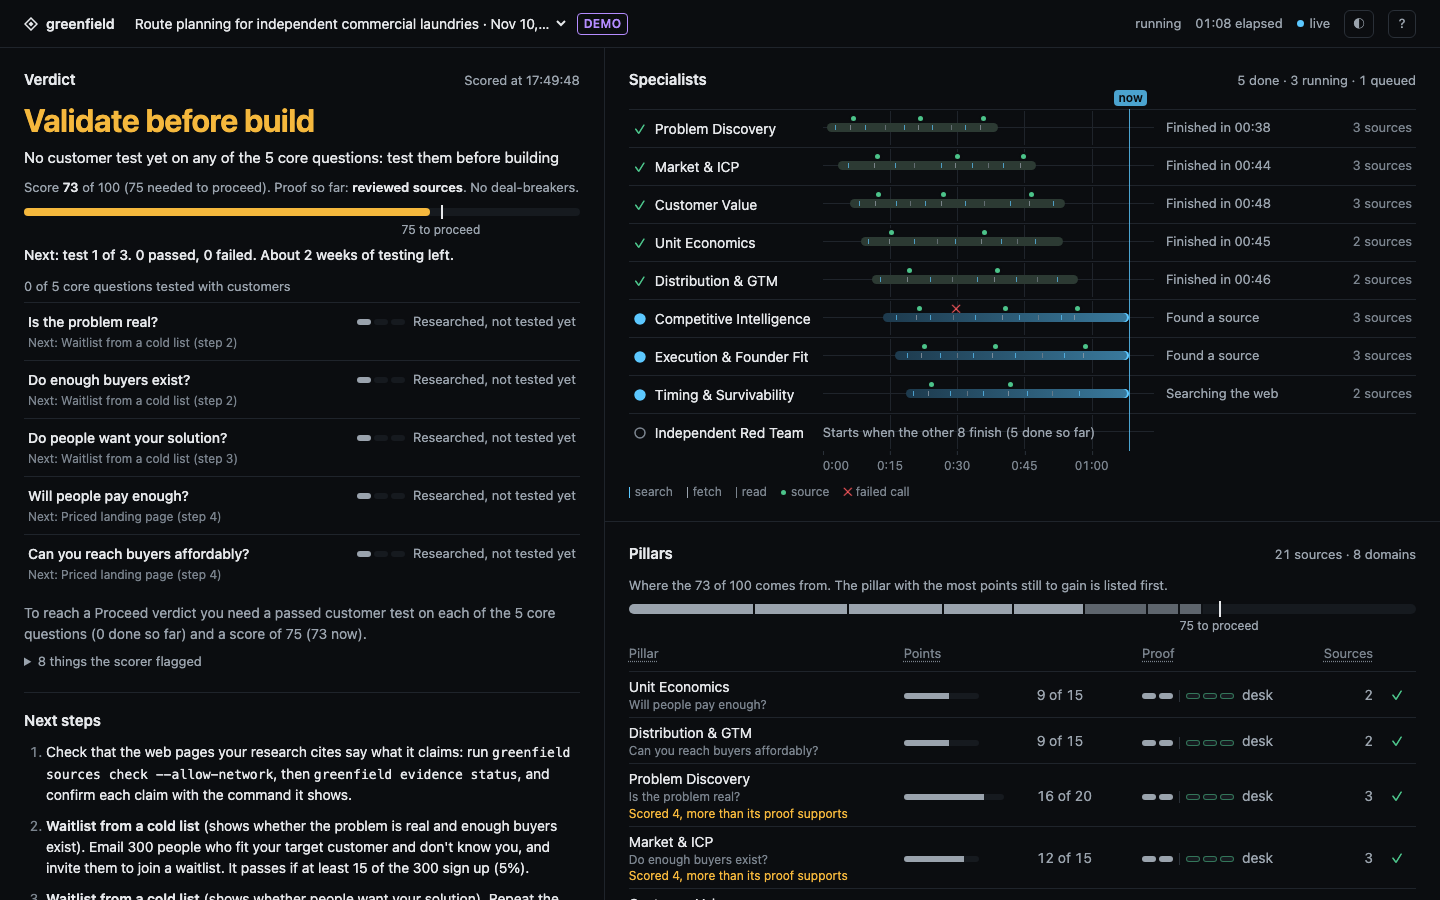
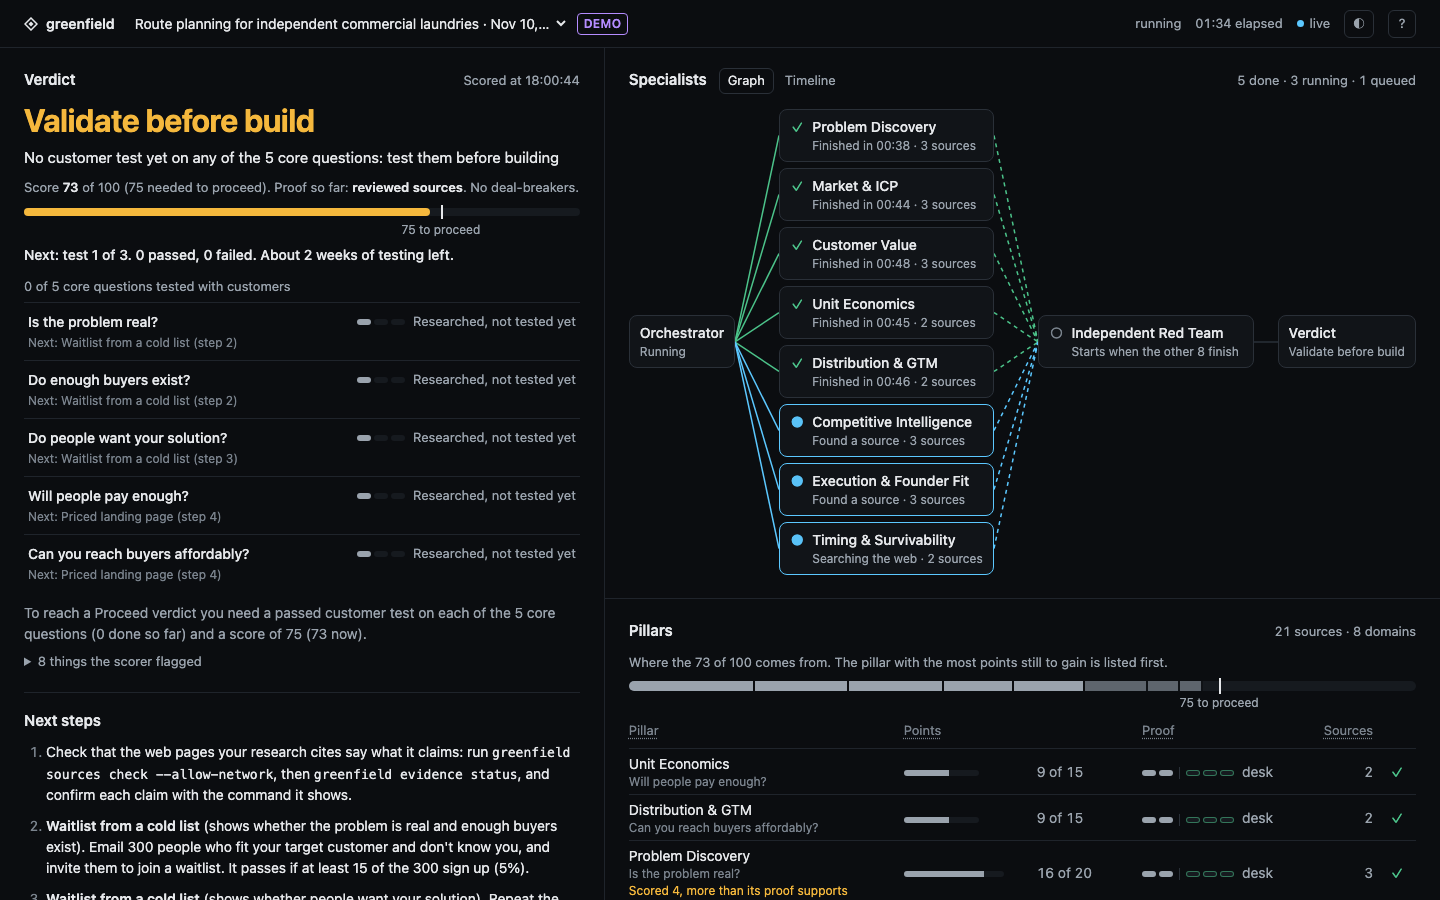
Specialists as a live graph with a Timeline switch (W58)
- The Specialists panel draws the orchestrator, the eight specialists,
  the red team and the verdict as connected boxes; each box shows the
  agent's state, current action and source count
- Lines into the red team stay dashed until all eight specialists finish
- A dot travels a specialist's line when it records a source, skipped
  for old events and under reduced motion
- The old lanes stay behind a Graph / Timeline switch that remembers the
  choice; phones keep the compact list
- A finished run folds the panel to one line with a Show details button

diff --git a/skill/assets/mission-control.html b/skill/assets/mission-control.html
@@ -116,6 +116,26 @@ section{padding:20px 24px;min-width:0}
 .legend i{display:inline-block;vertical-align:middle;margin-right:5px}
 .legend .lt{width:1px;height:11px}.legend .ld{width:5px;height:5px;border-radius:50%;background:var(--ok)}
 .note{color:var(--fg-2);font-size:13px;margin:0 0 8px}
+/* graph: the same agents as the timeline, drawn as who hands work to whom; lines are stretched SVG, nodes are real buttons */
+.h #viewSw{margin-right:auto}
+.graph{display:none;grid-template-columns:auto 44px minmax(0,1fr) 44px minmax(0,1fr) 24px auto;align-items:center}
+.edges{position:relative;align-self:stretch}.edges svg{position:absolute;inset:0;width:100%;height:100%}
+.edges line{stroke:var(--line-2);stroke-width:1.5;vector-effect:non-scaling-stroke}
+.edges line.run{stroke:var(--run)}.edges line.done{stroke:var(--ok)}.edges line.fail{stroke:var(--bad)}.edges line.wait{stroke:var(--warn)}
+.edges.hold line{stroke-dasharray:4 4}
+.gcol{display:flex;flex-direction:column;min-width:0}
+.node{display:grid;grid-template-columns:14px minmax(0,1fr);column-gap:8px;align-items:baseline;width:100%;min-width:0;margin:3px 0;padding:6px 10px;border:1px solid var(--line-2);border-radius:8px;background:var(--raised);text-align:left;color:inherit;font:inherit}
+.node.plain{display:block;width:auto}
+button.node{cursor:pointer}button.node:hover,.node.sel{border-color:var(--fg-3)}
+.node .name{display:block;font-weight:500;overflow:hidden;text-overflow:ellipsis;white-space:nowrap}
+.node .what{display:block;grid-column:2;font-size:12px}.graph>.node span{white-space:normal}
+.node[data-s="run"]{border-color:var(--run)}.node[data-s="fail"]{border-color:var(--bad)}.node[data-s="wait"]{border-color:var(--warn)}
+.node[data-s="run"] .g{animation:pulse 1.6s ease-in-out infinite}
+@keyframes pulse{50%{opacity:.35}}
+.flow{position:absolute;left:0;top:var(--y);width:7px;height:7px;margin:-3.5px;border-radius:50%;background:var(--ok);animation:flow .9s linear forwards}
+@keyframes flow{to{left:100%;top:50%}}
+.lanedone{display:flex;align-items:center;gap:12px;margin:0;color:var(--fg-2)}
+@media (min-width:641px){.lanes[data-view="graph"] .graph{display:grid}.lanes[data-view="graph"] .lanebox,.lanes[data-view="graph"] .legend{display:none}}
 /* pillars: the bar is the score split by pillar, each row is one pillar's share */
 .pbar{position:relative;display:flex;height:10px;border-radius:5px;background:var(--track);margin:0 0 30px}
 .pbar i{background:var(--fg-2);box-shadow:inset -2px 0 var(--bg);cursor:pointer}.pbar i:first-child{border-radius:5px 0 0 5px}
@@ -178,7 +198,7 @@ th.r .hint .tip{left:auto;right:-8px}
 .keys kbd{font:12px var(--mono);color:var(--fg)}
 .help p{color:var(--fg-2);font-size:13px;margin:14px 0 0}
 @media (prefers-reduced-motion:reduce){*,*::before,*::after{animation:none!important;transition:none!important}}
-@media (forced-colors:active){.span,.ladder i,.seg i,.sbar,.pbar,.pts,.tick{border:1px solid CanvasText}}
+@media (forced-colors:active){.span,.node,.ladder i,.seg i,.sbar,.pbar,.pts,.tick{border:1px solid CanvasText}}
 @media (max-width:1100px){main{grid-template-columns:1fr;grid-template-rows:none;grid-template-areas:"verdict" "lanes" "matrix" "log"}.verdict{border-right:0;border-bottom:1px solid var(--line)}.matrix{border-right:0;border-bottom:1px solid var(--line)}
 }
 /* a verdict panel wide enough for two columns: map with the verdict's words beside it, steps below in two columns that read down */
@@ -191,7 +211,7 @@ th.r .hint .tip{left:auto;right:-8px}
   #pillars td:first-child{white-space:normal}
   .bar{gap:10px;padding:0 12px}.lane{grid-template-columns:max-content minmax(0,1fr)}.mark .word,.clock,.kind,.conn .ctext{display:none}
   section{padding:14px 12px}
-  .axis,.nowline,.legend,.lane .track,.lane .cnt,.pts,.hide-sm{display:none}
+  .axis,.nowline,.legend,.lane .track,.lane .cnt,.pts,#viewSw,.hide-sm{display:none}
   .lanebox{margin-top:0}.crow{grid-template-columns:minmax(0,1fr)}
   .row{gap:8px}
 }
@@ -225,11 +245,13 @@ th.r .hint .tip{left:auto;right:-8px}
 </div>
 </section>
 <section class="lanes" aria-labelledby="lh">
-<div class="h"><h2 id="lh">Specialists</h2><span class="meta num" id="laneMeta"></span></div>
+<div class="h"><h2 id="lh">Specialists</h2><div class="filters" role="group" aria-label="Specialists view" id="viewSw"><button type="button" data-v="graph" aria-pressed="true">Graph</button><button type="button" data-v="timeline" aria-pressed="false">Timeline</button></div><span class="meta num" id="laneMeta"></span></div>
 <p id="hooksOff" class="note" hidden>No live signal: hooks are off, so statuses come from checkpoints only. Turn them on with <code>greenfield hooks install</code>.</p>
+<p class="lanedone" id="laneDone" hidden><span id="laneDoneText"></span><button type="button" class="iconbtn" id="laneToggle"></button></p>
+<div id="laneBody"><div class="graph" id="graph"></div>
 <div class="lanebox" id="lanebox"><div id="agents"><div class="empty">No agents have started.</div></div>
 <div class="axis" aria-hidden="true"><span></span><div class="labels" id="axis"></div><span></span><span></span></div><div class="nowline" id="nowline" hidden></div></div>
-<div class="legend" aria-hidden="true"><span><i class="lt" style="background:var(--run)"></i>search</span><span><i class="lt" style="background:var(--fg-2)"></i>fetch</span><span><i class="lt" style="background:var(--fg-3)"></i>read</span><span><i class="ld"></i>source</span><span><b style="color:var(--bad)">✕</b> failed call</span></div>
+<div class="legend" aria-hidden="true"><span><i class="lt" style="background:var(--run)"></i>search</span><span><i class="lt" style="background:var(--fg-2)"></i>fetch</span><span><i class="lt" style="background:var(--fg-3)"></i>read</span><span><i class="ld"></i>source</span><span><b style="color:var(--bad)">✕</b> failed call</span></div></div>
 </section>
 <section class="matrix" aria-labelledby="mh">
 <div class="h"><h2 id="mh">Pillars</h2><span class="meta num" id="mMeta"></span></div>
@@ -276,7 +298,7 @@ const PROOF=['nothing recorded','interviews or surveys','reviewed sources','a re
 const GLYPH={Done:['✓','done'],Failed:['✕','fail'],Running:['●','run'],Claimed:['●','run'],Quiet:['◌','wait'],Stopped:['–','none'],Queued:['○','queued']};
 const EMPTY={no_research_dir:['No research folder linked','This run does not know which research folder it produces yet, so there is no verdict to show.'],no_evaluation:['No evaluation yet','The linked folder has no evaluation.json.'],invalid:["Can't score this evaluation",'evaluation.json has input errors, so no verdict is shown.'],invalid_path:['Research folder is outside this project','The linked path leaves the project folder, so it was not read.']};
 const store={run:null,rev:null,runsTag:null,runSig:'',lastId:null,state:null,dec:null,decEtag:undefined,decAt:0,verdict:null,trail:[],lastOk:0,errDelay:1500,failing:false,retryAt:0,timer:0,busy:false,
-  seen:new Set(),groups:[],counts:{},filter:'all',marks:{},roles:[],pending:0,follow:true,say:'',lastSay:0,sayTimer:0,drawer:null,sel:-1,hover:null};
+  seen:new Set(),groups:[],counts:{},filter:'all',marks:{},roles:[],pending:0,follow:true,say:'',lastSay:0,sayTimer:0,drawer:null,sel:-1,hover:null,view:'graph',openLanes:false};
 const clock=x=>{const d=new Date(x);return isNaN(d)?'—':d.toLocaleTimeString([],{hour:'2-digit',minute:'2-digit',second:'2-digit',hour12:false})};
 const hm=x=>{const d=new Date(x);return isNaN(d)?'—':d.toLocaleString([],{day:'numeric',month:'short',hour:'2-digit',minute:'2-digit'})};
 const dur=ms=>{const s=Math.max(0,Math.floor(ms/1000)),h=Math.floor(s/3600),m=Math.floor(s/60)%60,p=n=>String(n).padStart(2,'0');return h?h+':'+p(m)+':'+p(s%60):p(m)+':'+p(s%60)};
@@ -368,6 +390,11 @@ function patchAgents(s){
     box.replaceChildren(...s.agents.map((a,i)=>{const b=document.createElement('button');b.type='button';b.className='lane';b.dataset.agent=a.name;b.dataset.i=i;
       b.innerHTML='<span class="who"><span class="g"></span><span class="name"></span></span><span class="track"></span><span class="what"></span><span class="cnt"></span>';return b}));
     box._built=s.meta.run_id;
+    const sp=s.agents.filter(a=>a.name!=='gf-redteam'),rt=s.agents.find(a=>a.name==='gf-redteam'),y=i=>((i+.5)/sp.length*100).toFixed(2);
+    const node=a=>`<button type="button" class="node" data-agent="${esc(a.name)}" data-i="${s.agents.indexOf(a)}"><span class="g"></span><span class="name"></span><span class="what"></span></button>`;
+    const fan=(id,from)=>`<div class="edges"${id}><svg viewBox="0 0 100 100" preserveAspectRatio="none" aria-hidden="true">${sp.map((a,i)=>`<line data-e="${esc(a.name)}" x1="0" y1="${from?y(i):50}" x2="100" y2="${from?50:y(i)}"/>`).join('')}</svg></div>`;
+    $('graph').innerHTML=`<div class="node plain"><span class="name">Orchestrator</span><span class="what" id="gHub"></span></div>${fan('',0)}<div class="gcol">${sp.map(node).join('')}</div>${fan(' id="gOut"',1)}${rt?node(rt):'<span></span>'}
+<div class="edges"><svg viewBox="0 0 100 100" preserveAspectRatio="none" aria-hidden="true"><line id="gEnd" x1="0" y1="50" x2="100" y2="50"/></svg></div><div class="node plain"><span class="name">Verdict</span><span class="what" id="gVerdict"></span></div>`;
   }
   paintLanes();
 }
@@ -391,8 +418,19 @@ function paintLanes(){
     const what=d.label==='Done'&&a.started_at&&a.ended_at?'finished in '+dur(Date.parse(a.ended_at)-Date.parse(a.started_at)):d.label==='Queued'?(a.name==='gf-redteam'?'':'queued'):(doing||d.note||a.activity||'');
     setText(q('.what'),what.charAt(0).toUpperCase()+what.slice(1)+(att[a.name]>1?' · '+plural(att[a.name],'attempt'):''));setCls(q('.what'),'what'+(d.warn?' warn':''));setAttr(q('.what'),'title',d.note||a.activity||'');
     setText(q('.cnt'),a.sources?plural(a.sources,'source'):'');setAttr(q('.cnt'),'title',plural(a.tools,'tool call')+', '+plural(a.sources,'source')+' found');
-    setAttr(b,'aria-label',`${roleName(a.name)}: ${d.label}${what?', '+what:''}${a.errors?', '+plural(a.errors,'error'):''}`);
+    const lab=`${roleName(a.name)}: ${d.label}${what?', '+what:''}${a.errors?', '+plural(a.errors,'error'):''}`;setAttr(b,'aria-label',lab);
+    const n=$('graph').querySelector(`[data-agent="${CSS.escape(a.name)}"]`);if(!n)continue;const nq=c=>n.querySelector(c);
+    setAttr(n,'data-s',gc);setAttr(n,'aria-label',lab);setText(nq('.g'),g);setCls(nq('.g'),'g '+gc);setAttr(nq('.g'),'title',d.label);setText(nq('.name'),roleName(a.name));
+    setText(nq('.what'),[a.name==='gf-redteam'&&d.label==='Queued'?'Starts when the other '+(s.agents.length-1)+' finish':q('.what').textContent,a.sources?plural(a.sources,'source'):''].filter(Boolean).join(' · '));
+    for(const l of $('graph').querySelectorAll(`[data-e="${CSS.escape(a.name)}"]`))setAttr(l,'class',gc);
+    if(a.name==='gf-redteam')setAttr($('gEnd'),'class',gc);
   }
+  const sec=$('lh').closest('section'),shut=!!end&&!store.openLanes;setAttr(sec,'data-view',store.view);
+  for(const b of $('viewSw').querySelectorAll('[data-v]'))setAttr(b,'aria-pressed',store.view===b.dataset.v);
+  if($('gOut')){$('gOut').classList.toggle('hold',ready<s.agents.length-1);setText($('gHub'),s.status.charAt(0).toUpperCase()+s.status.slice(1));setText($('gVerdict'),store.dec&&store.dec.state==='ok'?store.dec.verdict.label:'Not scored yet')}
+  show($('laneDone'),!!end);show($('laneBody'),!shut);show($('viewSw'),!shut);
+  if(end){const sites=new Set(Object.values(store.marks).flat().filter(m=>m.k==='src').map(m=>m.label)).size;
+    setText($('laneDoneText'),'Research '+(s.status==='completed'?'finished in ':'stopped after ')+dur(end-t0)+'. '+plural(s.stats.source_events,'source')+(sites?' from '+plural(sites,'site'):'')+'.');setText($('laneToggle'),shut?'Show details':'Hide details')}
   setText($('laneMeta'),s.hooks_off?'no live signal':[done&&done+' done',run&&run+' running',queued&&queued+' queued',idle&&'quiet for '+((q=>q<3600000?Math.round(q/60000)+' min':Math.round(q/3600000)+' h')(Date.now()-last))].filter(Boolean).join(' · '));
   let lab='';for(let x=0;x<=len;x+=step)lab+=`<span style="left:${(x/len*100).toFixed(2)}%">${esc(dur(x).replace(/^00:/,'0:'))}</span>`;
   setHTML($('axis'),lab);
@@ -424,9 +462,14 @@ function tally(t){for(const f in FILTERS)if(FILTERS[f](t))store.counts[f]=(store
 function mark(e){
   const t=Date.parse(e.timestamp);if(!roleOf(e.agent)||isNaN(t))return;const list=store.marks[e.agent]||(store.marks[e.agent]=[]);
   if(e.event==='tool_started')list.push({t,k:TOOLK[e.tool]||'read'});
-  else if(e.event==='source_seen')list.push({t,k:'src',label:domain(e.url)});
+  else if(e.event==='source_seen'){list.push({t,k:'src',label:domain(e.url)});if(Date.now()-t<5000)flow(e.agent)}
   else if(/_failed$|^warning$/.test(e.event))list.push({t,k:'err',label:e.summary||'error'});
   if(list.length>600)list.splice(0,list.length-600);// shortcut: older marks drop off very long runs; lane counts stay exact
+}
+/* a new source travels its specialist's line to the red team once; never for history, hidden graphs or reduced motion */
+function flow(name){
+  const out=$('gOut'),l=out&&out.offsetWidth&&out.querySelector(`[data-e="${CSS.escape(name)}"]`);if(!l||matchMedia('(prefers-reduced-motion: reduce)').matches)return;
+  const d=document.createElement('i');d.className='flow';d.style.setProperty('--y',l.getAttribute('y1')+'%');d.onanimationend=()=>d.remove();out.appendChild(d);
 }
 function actionOf(e){
   const ev=e.event;
@@ -489,7 +532,7 @@ function renderDecision(v){
   const steps=v.steps||[v.next_step.text];setText($('betLbl'),steps.length>1?'Next steps':'Next step');
   setHTML($('steps'),steps.map(t=>`<li>${esc(t).replace(/\*\*(.+?)\*\*/g,'<b>$1</b>').replace(/`([^`]+)`/g,'<code>$1</code>')}</li>`).join(''));setText($('nextCmd'),v.next_step.command);
   setHTML($('prov'),'Scored from evaluation.json. '+(v.stored.present?(v.stored.matches?'<span class="ok">It matches the saved decision.json.</span>':'The saved decision.json differs.'):'No decision.json is saved yet.')+(store.trail.length>1?' Score so far: '+esc(store.trail.join(' → '))+'.':''));
-  paintRescored();patchPillars();
+  paintRescored();patchPillars();paintLanes();
   if(store.verdict&&store.verdict!==vd.decision)say('Verdict changed to '+vd.label);store.verdict=vd.decision;
   if(store.drawer&&store.drawer.pillar)openPillar(store.drawer.pillar,false);
 }
@@ -535,7 +578,9 @@ function evidenceHTML(d){
   return (rows?`<ul class="claims">${rows}</ul>`:'<p class="dim">No claims linked to this pillar.</p>')+`<p class="dim">Ledger receipts: ${d.receipts.length?esc(d.receipts.join(', ')):'none'}</p>`;
 }
 /* wiring */
-$('agents').addEventListener('click',e=>{const b=e.target.closest('[data-agent]');if(!b)return;store.sel=+b.dataset.i;openAgent(b.dataset.agent)});
+for(const box of ['agents','graph'])$(box).addEventListener('click',e=>{const b=e.target.closest('[data-agent]');if(!b)return;store.sel=+b.dataset.i;openAgent(b.dataset.agent)});
+$('viewSw').addEventListener('click',e=>{const b=e.target.closest('[data-v]');if(!b)return;store.view=b.dataset.v;try{localStorage.setItem('gf-view',store.view)}catch(err){}paintLanes()});
+$('laneToggle').onclick=()=>{store.openLanes=!store.openLanes;paintLanes()};
 for(const box of ['mapbox','pbar','pillars']){$(box).addEventListener('click',e=>{const r=e.target.closest('[data-p]');if(r)openPillar(r.dataset.p)});$(box).addEventListener('mouseover',e=>{const t=e.target.closest('[data-p]');hiPillar(t?t.dataset.p:null)});$(box).addEventListener('mouseleave',()=>hiPillar(null))}
 $('chips').addEventListener('click',e=>{const b=e.target.closest('[data-f]');if(b)setFilter(b.dataset.f)});
 $('feed').addEventListener('scroll',()=>{const f=$('feed'),bottom=f.scrollHeight-f.scrollTop-f.clientHeight<8;if(bottom&&!store.follow)follow();else if(!bottom&&store.follow){store.follow=false;paintFeedState()}});
@@ -552,7 +597,7 @@ document.addEventListener('click',e=>{
   try{navigator.clipboard.writeText(src.textContent).then(done,()=>getSelection().selectAllChildren(src))}catch(err){getSelection().selectAllChildren(src)}});
 document.addEventListener('keydown',e=>{
   if(e.metaKey||e.ctrlKey||e.altKey||e.target.closest('select,input,textarea'))return;
-  const lanes=[...$('agents').querySelectorAll('.lane')],k=e.key;
+  const lanes=[...document.querySelectorAll($('graph').offsetWidth?'#graph [data-agent]':'#agents .lane')],k=e.key;
   if(k==='Escape'){$('help').classList.remove('open');closeDrawer()}
   else if(k==='?'){$('help').classList.toggle('open')}
   else if((k==='j'||k==='k')&&lanes.length){e.preventDefault();store.sel=((store.sel<0?(k==='j'?-1:0):store.sel)+(k==='j'?1:-1)+lanes.length)%lanes.length;lanes.forEach((l,i)=>l.classList.toggle('sel',i===store.sel));lanes[store.sel].focus()}
@@ -564,7 +609,7 @@ document.addEventListener('keydown',e=>{
 document.addEventListener('visibilitychange',()=>{if(document.hidden)paintConn();else poll()});
 window.addEventListener('hashchange',()=>{const r=store.run;readHash();if(store.run!==r){switchRun(store.run);poll()}else setFilter(store.filter)});
 window.addEventListener('resize',paintLanes);
-let savedTheme=null;try{savedTheme=localStorage.getItem('gf-theme')}catch(e){}
+let savedTheme=null;try{savedTheme=localStorage.getItem('gf-theme');if(localStorage.getItem('gf-view')==='timeline')store.view='timeline'}catch(e){}
 applyTheme(savedTheme==='light'||savedTheme==='dark'?savedTheme:null);
 readHash();
 setInterval(()=>{paintConn();if(store.state&&!runSpan().end)paintLanes()},1000);

diff --git a/tests/test_dashboard_browser.py b/tests/test_dashboard_browser.py
@@ -111,6 +111,9 @@ class DashboardBrowserTest(unittest.TestCase):
         self.assertEqual(page.text_content("#vword"), "Validate before build")
         self.assertEqual(page.locator("#pillars tr").count(), 8)
         self.assertEqual(page.locator("#pbar [data-p]").count(), 8)  # the score split by pillar
+        self.assertEqual(page.locator("#graph .node").count(), 11)  # orchestrator, 8 specialists, red team, verdict
+        self.assertTrue(page.is_visible('#graph [data-agent="gf-redteam"]'))
+        self.assertTrue(page.is_hidden("#lanebox"))
         self.assertIn("Next: test 1 of 3.", page.text_content("#mapbox"))
         self.assertTrue(page.is_hidden("#banner"))
         self.assertTrue(page.is_visible("#demoTag"))
@@ -123,7 +126,7 @@ class DashboardBrowserTest(unittest.TestCase):
         page, _ = self.open()
         statuses = []
         page.on("response", lambda r: "/api/state" in r.url and statuses.append(r.status))
-        page.focus('[data-agent="gf-market"]')
+        page.focus('#graph [data-agent="gf-market"]')  # the graph is the default view
         page.evaluate("window._row = document.activeElement; document.getElementById('feed').scrollTop = 400")
         page.wait_for_timeout(300)
         page.evaluate(f"window._first = ({FIRST_VISIBLE})()")
@@ -197,13 +200,20 @@ class DashboardBrowserTest(unittest.TestCase):
         self.assertEqual(page.text_content("#vword"), "Validate before build")
         self.assertTrue(page.text_content("#runKind").startswith("completed"))
         wait(page, "document.getElementById('connText').textContent.startsWith('finished')", timeout=5000)
-        self.assertEqual(page.get_attribute('[data-agent="gf-market"] .g', "title"), "Done")
-        self.assertNotIn("Running", page.locator('[data-agent="gf-market"]').inner_text())
+        self.assertEqual(page.get_attribute('#graph [data-agent="gf-market"] .g', "title"), "Done")
+        # a finished run folds the panel to one line; the timeline behind it is still drawn
+        self.assertTrue(page.text_content("#laneDoneText").startswith("Research finished in "))
+        self.assertTrue(page.is_hidden("#graph"))
+        page.click("#laneToggle")
+        page.click('#viewSw [data-v="timeline"]')
+        self.assertTrue(page.is_visible('#agents [data-agent="gf-market"]'))
+        self.assertEqual(page.get_attribute('#agents [data-agent="gf-market"] .g', "title"), "Done")
+        self.assertNotIn("Running", page.locator('#agents [data-agent="gf-market"]').inner_text())
         # frozen timeline: the running agent's bar ends exactly where the last event (run_completed) sits on the scale
         s = json.load(urllib.request.urlopen(f"{self.url}api/state?run={self.big}"))
         t0, t1 = (dt.datetime.fromisoformat(s["run_window"][k]).timestamp() for k in ("start", "end"))
         want = (t1 - t0) / max(5, t1 - t0) * 100
-        got = page.evaluate("(() => { const f = document.querySelector('[data-agent=\"gf-market\"] .span'); return parseFloat(f.style.left) + parseFloat(f.style.width) })()")
+        got = page.evaluate("(() => { const f = document.querySelector('#agents [data-agent=\"gf-market\"] .span'); return parseFloat(f.style.left) + parseFloat(f.style.width) })()")
         self.assertAlmostEqual(got, want, delta=0.1)
         self.assertEqual(s["run_window"]["end"], s["events"][0]["timestamp"])
 

diff --git a/docs/mission-control.md b/docs/mission-control.md
@@ -18,7 +18,7 @@ By default the demo is a snapshot one minute into a run: five specialists done, 
 ## Reading the dashboard
 
 - **Verdict** (top left) is recomputed from `evaluation.json`: the decision, the quality score out of 100, average proof and blockers. The bar shows the score against the 75 needed to proceed. Under it, the five core questions each show the stage they have reached (researched, tested with customers, paid) and the numbered step that would move them on; open one for its claims. Above the list, one line says which test is next, how many have passed and failed, and roughly how many weeks of testing are left. The line under the list says what a Proceed verdict still needs, and "Next steps" lists what to do in order.
-- **Specialists** (top right) is one lane per specialist on an elapsed-time axis. Ticks are tool calls (search, fetch, read), green dots are sources and a red ✕ is a failed tool. Bars show elapsed time, never estimated progress.
+- **Specialists** (top right) shows the agents as a graph: the orchestrator hands work to the eight specialists, their findings go to the red team, and the red team feeds the verdict. Each box shows what that agent is doing now and how many sources it has found. A running agent has a blue outline, a finished one a green tick, a failed one a red outline. The lines into the red team stay dashed until all eight specialists have finished, and a green dot travels a line when a specialist records a source. Open a box for that agent's events. **Timeline** switches to one lane per specialist on an elapsed-time axis: ticks are tool calls (search, fetch, read), green dots are sources and a red ✕ is a failed tool; bars show elapsed time, never estimated progress. On a phone only the compact list is shown. When the run has finished, the panel folds to one line with a "Show details" button.
 - **Pillars** breaks the score down. The bar across the top is the score split by pillar, with a mark at 75. Each row shows the points a pillar earned out of the points it can earn (its weight times its quality, divided by 5), its proof level and the question it answers. The pillar with the most points still to gain is listed first. Proof is the same 0 to 5 scale the commands call evidence. Hover a column heading for what it means; open a row for its claims, source checks and ledger receipts.
 - **Activity log** is the event stream, newest at the bottom. Scrolling up pauses it; `f` or the "new events" button follows again.
 
